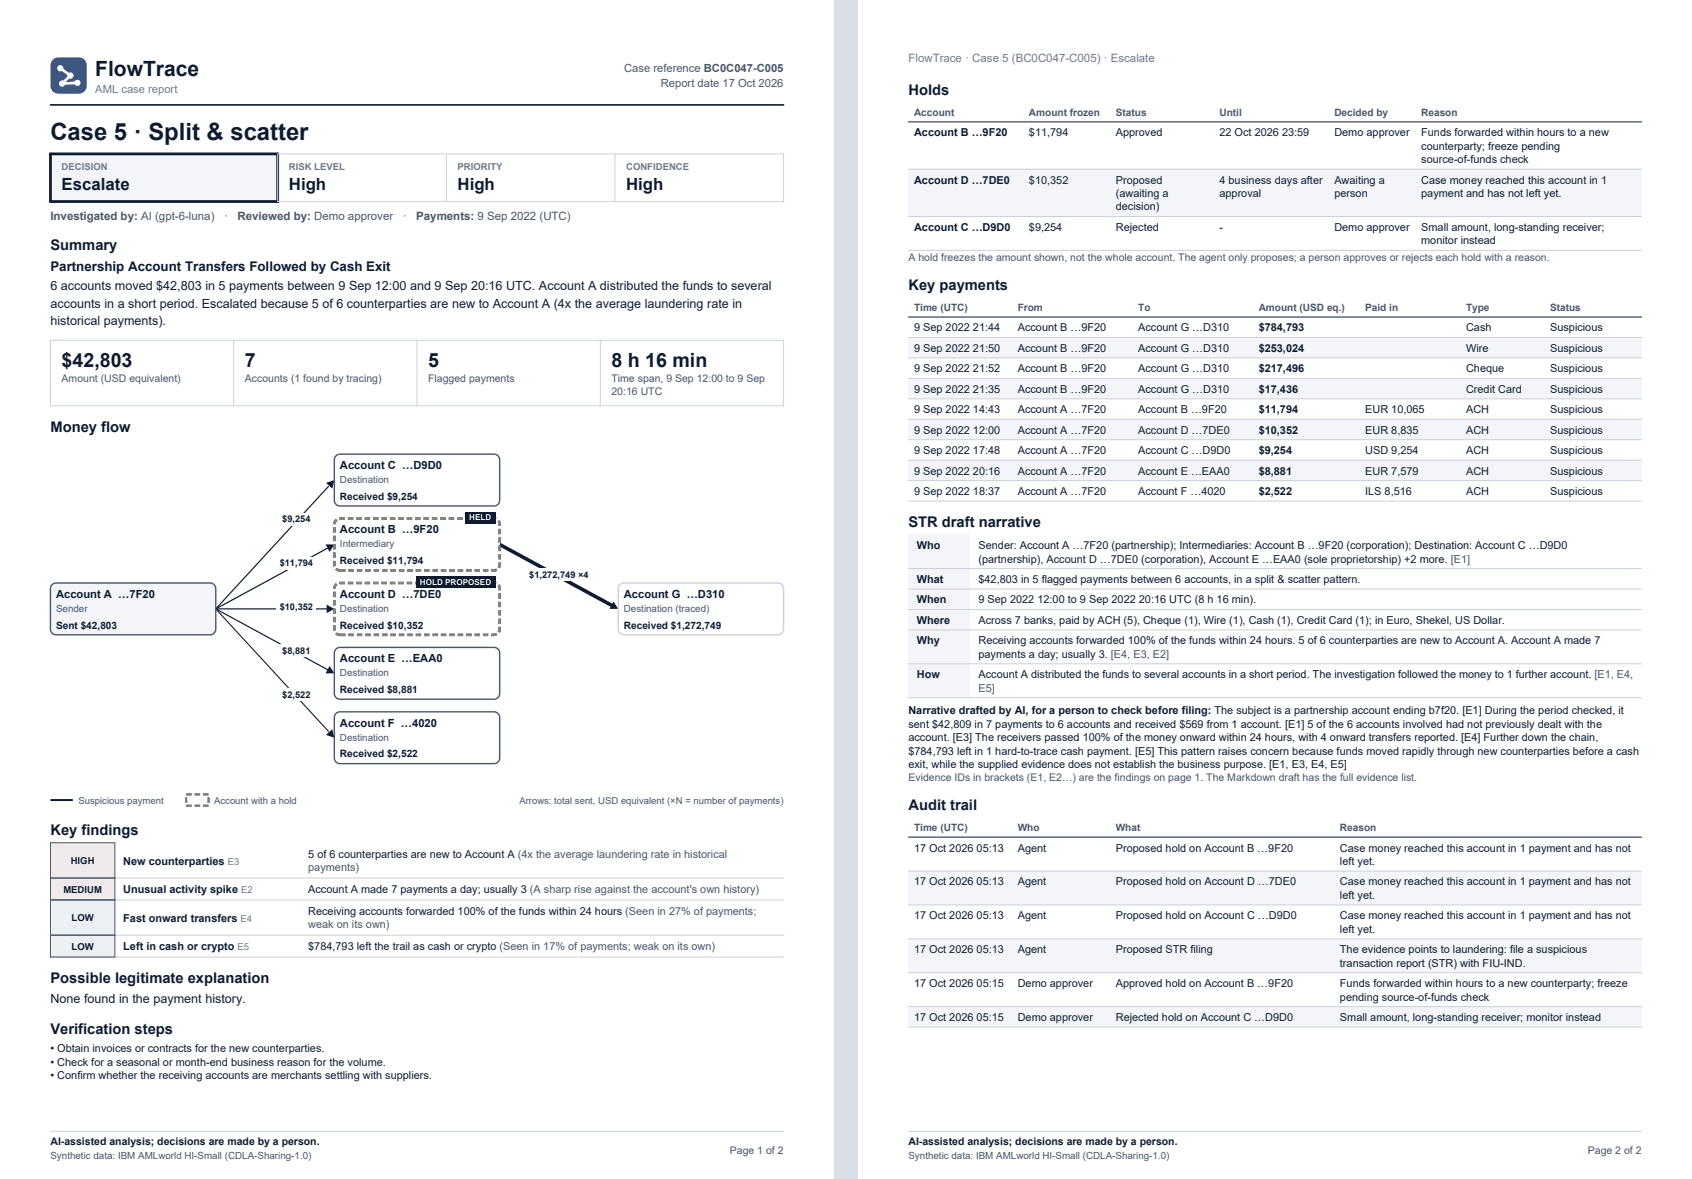
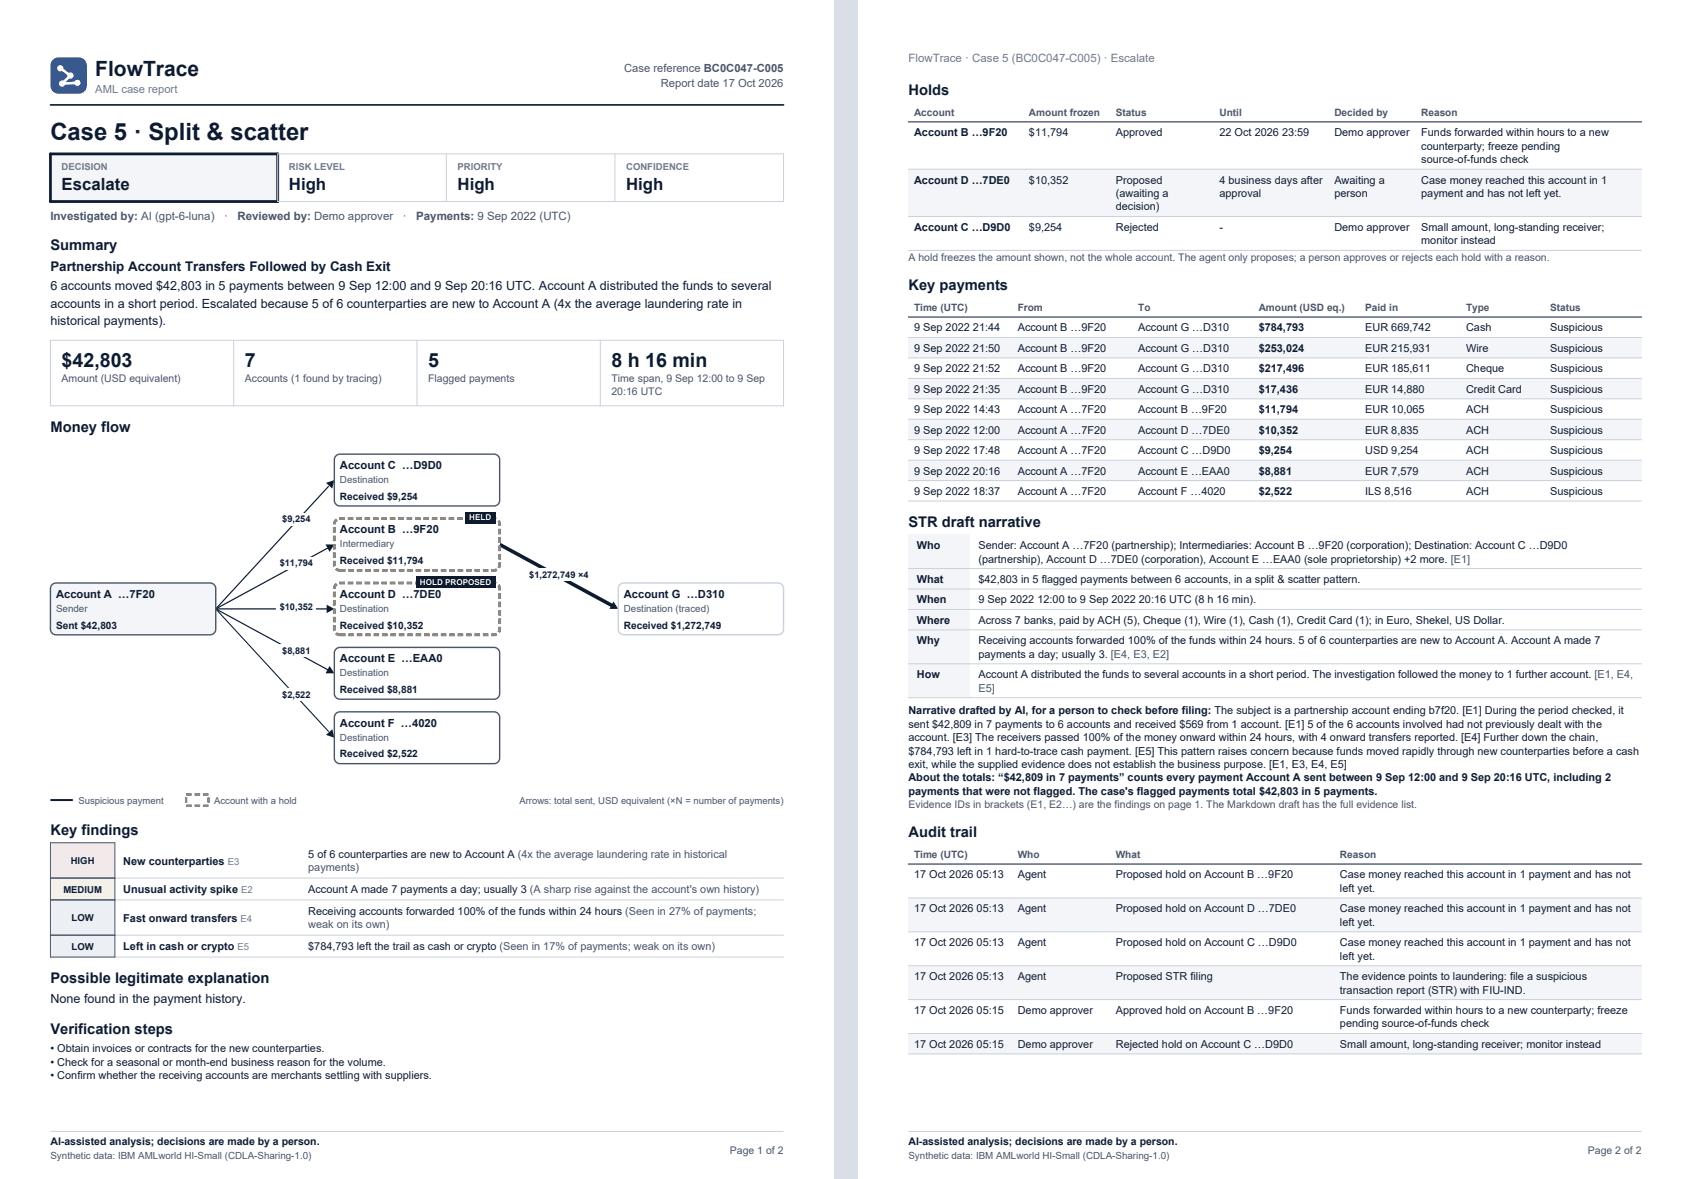
PDF report: one definition of the totals, and a currency on every payment
The case's totals are its flagged payments. The account profile counts every
payment in the case window, flagged or not; when the AI quotes it (summary or
STR narrative), the case page, the PDF and the Markdown draft now say which is
which ("$42,809 in 7 payments ... including 2 that were not flagged; the
flagged payments total $42,803 in 5 payments").

The agent now keeps each payment's currency. Results stored without it are
filled from the graph (read-only, cached); unknown reads "USD (assumed)",
never blank.

Changed region(s): [[0.5225, 0.6412, 0.9835, 0.916], [0.7991, 0.2748, 0.8605, 0.3359]]

diff --git a/frontend/src/components/case/Payments.tsx b/frontend/src/components/case/Payments.tsx
@@ -14,7 +14,8 @@ const gap = (ms: number) => {
 }
 
 /** The payment in its own currency ("EUR 1,050"), or the currency's name when the amount is unknown. */
-const paidIn = (p: Payment) => fmtOriginal(p.amount_orig, p.cur) || p.cur || ''
+/** Never blank: a payment stored without its currency reads "USD (assumed)", as in the PDF and the STR draft. */
+const paidIn = (p: Payment) => fmtOriginal(p.amount_orig, p.cur) || p.cur || 'USD (assumed)'
 
 /** The flow as a sequence: every payment in time order, with the wait before it. */
 export function PaymentSequence({ payments, currency, rate }: { payments: Payment[]; currency: string; rate: number }) {

diff --git a/frontend/src/lib/api.ts b/frontend/src/lib/api.ts
@@ -488,7 +488,8 @@ export interface CaseOverview {
   story: string[]
   /** One sentence naming what decided the verdict. */
   verdict_basis: string | null
-  summary: { headline: string; text: string; points: string[]; by_ai: boolean } | null
+  /** totals_note: set when a point quotes the account's whole-window totals, which differ from the flagged ones. */
+  summary: { headline: string; text: string; points: string[]; by_ai: boolean; totals_note?: string | null } | null
   next_steps: string[]
   steps: StepInfo[]
 }

diff --git a/frontend/src/components/case/Summary.tsx b/frontend/src/components/case/Summary.tsx
@@ -17,6 +17,9 @@ export function AiSummary({ summary, live, className = '' }: { summary: CaseOver
               <span>{p}</span>
             </li>
           ))}
+          {summary.totals_note && (
+            <li className="text-xs leading-snug" style={{ color: 'var(--ink-2)' }}>{summary.totals_note}</li>
+          )}
         </ul>
       ) : (
         <p className="text-sm" style={{ color: 'var(--ink-2)' }}>

diff --git a/backend/flowtrace/api/case_view.py b/backend/flowtrace/api/case_view.py
@@ -278,15 +278,21 @@ def build_overview(case: dict, result: dict | None, plan: dict | None, actions: 
         "alert_reasons": alert_reasons(case),
         # A guess at the underlying crime from the laundering shape (the data has no crime label); escalated cases only.
         "crime_guess": crime_guess(case, evidence, rules) if (result or {}).get("disposition", {}).get("action") == "ESCALATE" else [],
-        "summary": {"headline": clean(rep["headline"]), "text": clean(rep["executive_summary"]["text"]),
-                    "points": summary_points(rep, evidence, result, names), "by_ai": rep.get("author") not in (None, "template")}
-                   if rep else None,
+        "summary": _summary(case, rep, evidence, result, names) if rep else None,
+        "narrative_note": totals_note(case, evidence, names, rep.get("str_narrative") or "") if rep else None,
         "next_steps": [clean(x) for x in (rep or {}).get("next_steps", [])][:3],
         "names": names,
         "story": story(case, evidence, result, names, rules),
         "verdict_basis": verdict_basis(result, evidence, names),
         "steps": (result or {}).get("steps", []),
     }
+
+
+def _summary(case: dict, rep: dict, evidence: list[dict], result: dict | None, names: dict[str, str]) -> dict:
+    out = {"headline": clean(rep["headline"]), "text": clean(rep["executive_summary"]["text"]),
+           "points": summary_points(rep, evidence, result, names), "by_ai": rep.get("author") not in (None, "template")}
+    out["totals_note"] = totals_note(case, evidence, names, " ".join([out["headline"], out["text"], *out["points"]]))
+    return out
 
 
 PATTERN = {
@@ -366,6 +372,29 @@ def crime_guess(case: dict, evidence: list[dict], rules: dict) -> list[str]:
     return list(dict.fromkeys(out))[:3]
 
 
+def totals_note(case: dict, evidence: list[dict], names: dict[str, str], text: str) -> str | None:
+    """The case's totals are its flagged payments. The account profile (PROFILE evidence) counts every payment the
+    account made in the case window, flagged or not, and the AI may quote it. When `text` quotes the profile's
+    totals and they differ from the case's, this says which is which, so no two figures disagree unlabelled."""
+    flagged = f"{money(case.get('amount', 0.0))} in {len(case.get('edges', []))} payment{'s' if len(case.get('edges', [])) != 1 else ''}"
+    notes = []
+    for e in evidence:
+        m, acct = e.get("metrics") or {}, (e.get("accounts") or [None])[0]
+        if e.get("code") != "PROFILE" or not m.get("out_cnt") or not acct:
+            continue
+        n, total = int(m["out_cnt"]), float(m.get("out_sum") or 0.0)
+        quoted = money(total) in text or re.search(rf"{n} payments", text)
+        if not quoted or (n, round(total)) == (len(case.get("edges", [])), round(case.get("amount", 0.0))):
+            continue
+        extra = n - sum(x["src"] == acct for x in case.get("edges", []))
+        notes.append(f"About the totals: “{money(total)} in {n} payment{'s' if n != 1 else ''}” counts every payment "
+                     f"{names.get(acct, 'the account')} sent between {_when(case.get('t0'))} and "
+                     f"{_when((case.get('t1') or 1) - 1)} UTC"
+                     + (f", including {extra} payment{'s' if extra != 1 else ''} that {'were' if extra != 1 else 'was'} not flagged" if extra > 0 else "")
+                     + f". The case's flagged payments total {flagged}.")
+    return " ".join(notes[:2]) or None
+
+
 DECISION_POINT = {"ESCALATE": "Recommend escalating to a senior analyst.",
                   "REVIEW": "Mixed signals: a person should review it.",
                   "CLOSE": "Looks like normal activity: recommend closing."}
@@ -407,9 +436,12 @@ def money(usd: float, currency: str | None = "US Dollar", rate: float | None = 1
     return f"${usd:,.0f}"
 
 
+ASSUMED = "USD (assumed)"  # a payment stored without its currency: never shown blank
+
+
 def _paid_in(e: dict) -> str:
     r = orig_rate(e.get("cur"))
-    return original(e["amount"] * r, e["cur"]) if r is not None else (e.get("cur") or "")
+    return original(e["amount"] * r, e["cur"]) if r is not None else (e.get("cur") or ASSUMED)
 
 
 def original(amount: float | None, cur: str | None) -> str:
@@ -493,7 +525,9 @@ def str_markdown(case: dict, result: dict, plan: dict | None, actions: list[dict
     out += [""]
     if rep.get("next_steps"):
         out += ["## Next steps", ""] + [f"- {s}" for s in rep["next_steps"]] + [""]
+    note = totals_note(case, evidence, names, " ".join([rep.get("str_narrative") or "", *summary_points(rep, evidence, result, names)]))
     out += ["## STR narrative", "", rep.get("str_narrative") or "Not written: the rule-based report has no narrative.", ""]
+    out += [f"_{note}_", ""] if note else []
     out += ["## Payments in the case", "", "| Time | From | To | Amount (USD equivalent) | Paid in | Format |",
             "|---|---|---|---|---|---|"]
     out += [f"| {_utc(e['ts'])} | {e['src']} | {e['dst']} | {m(e['amount'])} | "

diff --git a/backend/tests/test_pdf_report.py b/backend/tests/test_pdf_report.py
@@ -136,3 +136,75 @@ def test_pdf_endpoint_survives_the_graph_being_down(api, monkeypatch):
     monkeypatch.setattr(M.service, "list_actions", down)
     monkeypatch.setattr(M.service, "audit", down)
     assert client.get("/api/cases/BX-C005/report.pdf").status_code == 200
+
+
+# --- one definition of the totals ------------------------------------------------------------------
+# The case's figures are its flagged payments. The account profile (PROFILE evidence) counts every payment the
+# account made in the case window, flagged or not. When AI text quotes the profile's totals, they are labelled.
+
+FAN = [pay(f"f{i}", A, x, amt, ts=T0 + i * H, cur="US Dollar")
+       for i, (x, amt) in enumerate([(B, 11_794.0), (C, 10_352.0), (B, 9_254.0), (C, 8_881.0), (B, 2_522.0)])]
+FLAGGED = "$42,803 in 5 payments"  # sum(FAN), as page 1 and the case page show it
+
+
+def with_profile(narrative: str, points: tuple[str, ...] = ()) -> dict:
+    r = escalated()
+    r["evidence"].append({**ev("E9", "context", 0.0, accounts=[A], code="PROFILE",
+                               claim="The account sent $42,809 in 7 payments to 3 accounts in the period checked."),
+                          "metrics": {"out_cnt": 7, "out_sum": 42_809.34, "in_cnt": 1, "in_sum": 568.59}})
+    r["report"]["str_narrative"] = narrative
+    r["report"]["summary_points"] = [{"text": p, "evidence_ids": ["E9"]} for p in points]
+    return r
+
+
+def test_window_totals_quoted_by_the_ai_are_labelled_everywhere():
+    quoted = "The subject sent $42,809 in 7 payments to 3 accounts. [E9]"
+    r = with_profile(quoted, points=("The account sent $42,809 in 7 payments.",))
+    o, pages, text = build(case(FAN), r)
+    flat = " ".join(text.split())
+    assert pages == 2 and FLAGGED in flat
+    note = "including 2 payments that were not flagged"
+    assert "$42,809 in 7 payments" in flat and note in flat and f"flagged payments total {FLAGGED}" in flat
+    # The case page's summary carries the same label, and so does the Markdown STR draft.
+    assert note in o["summary"]["totals_note"] and FLAGGED in o["summary"]["totals_note"]
+    md = V.str_markdown(case(FAN), r, None, [], RULES)
+    assert note in md and FLAGGED in md
+
+
+def test_no_label_when_the_ai_uses_the_flagged_totals():
+    r = with_profile(f"The subject sent {FLAGGED}. [E9]", points=(f"The account sent {FLAGGED}.",))
+    o, _, text = build(case(FAN), r)
+    assert "not flagged" not in text and o["summary"].get("totals_note") is None
+
+
+# --- every payment shows the currency it was paid in --------------------------------------------------
+
+def test_a_payment_with_no_known_currency_reads_usd_assumed():
+    trail = pay("t9", C, "0999:80000AAA0", 500.0, ts=T0 + 3 * H, role="trace")  # stored without a currency
+    r = escalated()
+    r["graph"]["edges"] = [trail]
+    _, _, text = build(case(CHAIN), r)
+    assert "USD (assumed)" in text
+    assert "USD (assumed)" in V.str_markdown(case([*CHAIN, {**trail, "cur": None}]), r, None, [], RULES)
+
+
+def test_the_agent_keeps_each_payments_currency():
+    from flowtrace.agent.context import CaseContext
+    ctx = CaseContext.__new__(CaseContext)
+    ctx.edges, ctx.nodes, ctx.accounts, ctx.emit = {}, {}, [A], lambda ev: None
+    ctx.add_edges([{**pay("t1", A, B, 5.0), "cur": "Euro"}], role="trace")
+    assert ctx.edges["t1"]["cur"] == "Euro"
+
+
+def test_stored_payments_without_a_currency_are_filled_from_the_graph(api, monkeypatch):
+    client, M, _ = api
+    r = escalated()
+    r["graph"]["edges"] = [pay("t9", C, "0999:80000AAA0", 500.0, ts=T0 + 3 * H, role="trace")]
+    M.RESULTS["BX-C005"] = r
+    M.CURRENCY.clear()
+    asked = []
+    monkeypatch.setattr(M, "ro", lambda q, p=None, **kw: asked.append(p) or type("R", (), {"rows": [{"tx_id": "t9", "cur": "Yen"}]})())
+    rows = client.get("/api/cases/BX-C005/overview").json()["transactions"]
+    assert next(p for p in rows if p["tx_id"] == "t9")["cur"] == "Yen"
+    client.get("/api/cases/BX-C005/overview")
+    assert len(asked) == 1  # cached: a page poll does not ask the graph again

diff --git a/backend/flowtrace/api/main.py b/backend/flowtrace/api/main.py
@@ -34,7 +34,7 @@ from flowtrace.api.overview import build_overview
 from flowtrace.api.runner import CaseRunner
 from flowtrace.pipeline.cases import batch_of
 from flowtrace.graph import queries as Q
-from flowtrace.graph.client import rw
+from flowtrace.graph.client import ro, rw
 from flowtrace.ml import signal_rates
 from flowtrace.settings import ROOT, cfg, settings
 
@@ -501,9 +501,38 @@ def case_overview(case_id: str) -> dict:
     return _overview(case_id, _case_actions(case_id))
 
 
+CURRENCY: dict[str, str | None] = {}  # tx_id -> the currency it was paid in (it never changes)
+
+
+def _currencies(edges: list[dict]) -> list[dict]:
+    """Payments stored without their currency (results from before the agent kept it, and hold-plan trails) get
+    it from the graph, read-only and cached. Unknown or unreachable: left empty, shown as "USD (assumed)"."""
+    missing = [e for e in edges if not e.get("cur") and e.get("tx_id") not in CURRENCY]
+    if missing:
+        try:
+            rows = ro(Q.TX_CURRENCY, {"rows": [{"tx_id": e["tx_id"], "src": e["src"], "dst": e["dst"]}
+                                               for e in missing[:500]]}).rows
+            CURRENCY.update({e["tx_id"]: None for e in missing[:500]} | {r["tx_id"]: r["cur"] for r in rows})
+        except Exception as ex:  # the graph may be restarting: the payments read "USD (assumed)" this time
+            log.warning("could not read payment currencies: %s", ex)
+    return [e if e.get("cur") else {**e, "cur": CURRENCY.get(e.get("tx_id"))} for e in edges]
+
+
+def _filled(case_id: str) -> tuple[dict | None, dict | None]:
+    """The case's result and hold plan with every payment's currency filled in where the graph knows it."""
+    result, plan = RESULTS.get(case_id), store.load_plan(case_id)
+    if result:
+        g = result.get("graph") or {}
+        result = {**result, "graph": {**g, "edges": _currencies(g.get("edges", []))}}
+    if plan and (plan.get("network") or {}).get("edges"):
+        plan = {**plan, "network": {**plan["network"], "edges": _currencies(plan["network"]["edges"])}}
+    return result, plan
+
+
 def _overview(case_id: str, actions: list[dict]) -> dict:
     c = CASES[case_id]
-    return {**case_view.build_overview(c, RESULTS.get(case_id), store.load_plan(case_id), actions,
+    result, plan = _filled(case_id)
+    return {**case_view.build_overview(c, result, plan, actions,
                                        _job_brief(case_id), _failed(case_id), cfg(),
                                        uploaded_at=BATCHES.get(c.get("batch_id") or "", {}).get("uploaded_at")),
             "auto_hold": auto_hold_policy()}
@@ -516,7 +545,8 @@ def case_report(case_id: str) -> Response:
         raise HTTPException(404, "no such case")
     if case_id not in RESULTS:
         raise HTTPException(409, "investigate the case first: the STR draft comes from the investigation")
-    md = case_view.str_markdown(CASES[case_id], RESULTS[case_id], store.load_plan(case_id), _case_actions(case_id))
+    result, plan = _filled(case_id)
+    md = case_view.str_markdown(CASES[case_id], result, plan, _case_actions(case_id))
     return Response(md, media_type="text/markdown; charset=utf-8",
                     headers={"Content-Disposition": f'attachment; filename="{case_id}-STR-draft.md"'})
 

diff --git a/backend/flowtrace/api/pdf_report.py b/backend/flowtrace/api/pdf_report.py
@@ -27,7 +27,7 @@ from reportlab.platypus import (BaseDocTemplate, Flowable, Frame, KeepInFrame, P
                                 Spacer, TableStyle)
 from reportlab.platypus import Table as _Table
 
-from flowtrace.api.case_view import PATTERN
+from flowtrace.api.case_view import ASSUMED, PATTERN
 
 INK = colors.HexColor("#0f1d33")
 INK2 = colors.HexColor("#46566e")
@@ -114,8 +114,10 @@ def money(usd: float | None) -> str:
 
 
 def original(amount: float | None, cur: str | None) -> str:
-    if amount is None or not cur:
-        return ""
+    if not cur:
+        return ASSUMED
+    if amount is None:
+        return cur
     code = CODES.get(cur, cur)
     return f"{code} {amount:,.4f}" if code == "BTC" else f"{code} {amount:,.0f}"
 
@@ -805,6 +807,8 @@ def _narrative(o: dict, result: dict, nm, acct) -> list:
     if rep.get("str_narrative"):
         out += [Spacer(1, 4), P("<b>Narrative drafted by AI, for a person to check before filing:</b> "
                                 + x(cut(rep["str_narrative"], CAP_NARRATIVE)), "cell")]
+    notes = list(dict.fromkeys(n for n in (o.get("narrative_note"), (o.get("summary") or {}).get("totals_note")) if n))
+    out += [P(f"<b>{x(n)}</b>", "cell") for n in notes]
     out += [P("Evidence IDs in brackets (E1, E2…) are the findings on page 1. The Markdown draft has the full evidence list.", "small")]
     return out
 

diff --git a/backend/tests/test_case_view.py b/backend/tests/test_case_view.py
@@ -139,7 +139,7 @@ def test_investigated_case_findings_summary_indicators():
     assert [e["id"] for e in o["explanations"]] == ["E3"]
     assert o["kpis"]["suspicious_patterns"] == 2
     assert {k: v for k, v in o["summary"].items() if k != "points"} == {
-        "headline": "Money passed through three accounts", "text": "Fast onward movement.", "by_ai": False}
+        "headline": "Money passed through three accounts", "text": "Fast onward movement.", "by_ai": False, "totals_note": None}
     # A result saved without bullet points gets the strongest reasons each way, then the decision.
     assert o["summary"]["points"] == ["Receiving accounts forwarded the funds within 24 hours.", "claim.", "Known counterparty.",
                                       "Recommend escalating to a senior analyst."]

diff --git a/backend/flowtrace/graph/queries.py b/backend/flowtrace/graph/queries.py
@@ -466,6 +466,13 @@ RETURN count(a) AS n
 """
 
 # A case's panel lists only its current actions; the global list (Results) keeps retired ones.
+TX_CURRENCY = """
+UNWIND $rows AS r
+MATCH (:Account {id: r.src})-[t:TRANSFER]->(:Account {id: r.dst})
+WHERE t.tx_id = r.tx_id
+RETURN t.tx_id AS tx_id, t.cur AS cur
+"""
+
 LIST_ACTIONS = """
 MATCH (a:Action) WHERE ($case_id IS NULL OR (a.case_id = $case_id AND a.retired_at IS NULL))
   AND ($status IS NULL OR a.status = $status)

diff --git a/backend/flowtrace/agent/context.py b/backend/flowtrace/agent/context.py
@@ -54,7 +54,7 @@ class CaseContext:
         for r in rows:
             if not r.get("tx_id") or r["tx_id"] in self.edges:
                 continue
-            e = {k: r.get(k) for k in ("tx_id", "src", "dst", "ts", "amount", "fmt")}
+            e = {k: r.get(k) for k in ("tx_id", "src", "dst", "ts", "amount", "fmt", "cur")}
             e["role"] = role
             self.edges[r["tx_id"]] = e
             new_e.append(e)
